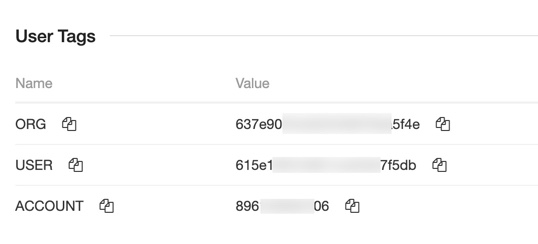
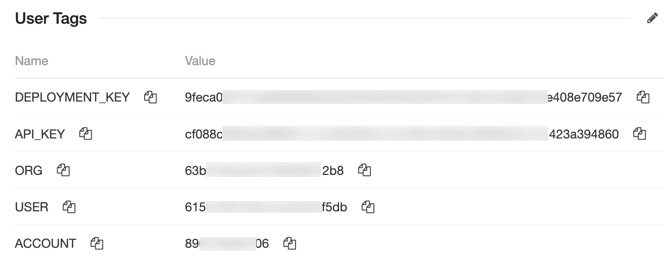
Updated the BP to use User Tags only. No more messing with User Data script

diff --git a/startup_script.py b/startup_script.py
@@ -32,15 +32,16 @@ logging.basicConfig(
 
 logging.info('-----------Initializing startup script-----------')
 time.sleep(60)
-logging.info('Reading /etc/environment')
-env = {}
-with open("/etc/environment") as f:
-    for line in f:
-        name, value = line.split("=")
-        env[name] = value
 
-TS_DEPLOY_KEY = env["TS_DEPLOY_KEY"]
-API_KEY = env["API_KEY"].strip('\n')
+logging.info('Getting UDF User Tags')
+r =requests.get('http://metadata.udf/userTags')
+r.raise_for_status()
+tags = r.json()
+ACCOUNT_ID = jq.compile(".userTags.name.ACCOUNT.value | keys[]").input(tags).first()
+USER_ID = jq.compile(".userTags.name.USER.value | keys[]").input(tags).first()
+ORGANIZATION_ID = jq.compile(".userTags.name.ORG.value | keys[]").input(tags).first()
+TS_DEPLOY_KEY = jq.compile(".userTags.name.DEPLOYMENT_KEY.value | keys[]").input(tags).first()
+API_KEY = jq.compile(".userTags.name.API_KEY.value | keys[]").input(tags).first()
 # Add additionalSetupConfig: ""
 
 logging.info('AIP Deployment key: ' + TS_DEPLOY_KEY)
@@ -62,13 +63,6 @@ subprocess.run("/snap/bin/helm delete threatstack-agents >> /home/ubuntu/log/sta
 time.sleep(15)
 subprocess.run("/snap/bin/helm install threatstack-agents --values /home/ubuntu/ts/values.yaml threatstack/threatstack-agent >> /home/ubuntu/log/startup.log", shell=True)
 
-logging.info('Getting UDF User Tags')
-r =requests.get('http://metadata.udf/userTags')
-r.raise_for_status()
-tags = r.json()
-ACCOUNT_ID = jq.compile(".userTags.name.ACCOUNT.value | keys[]").input(tags).first()
-USER_ID = jq.compile(".userTags.name.USER.value | keys[]").input(tags).first()
-ORGANIZATION_ID = jq.compile(".userTags.name.ORG.value | keys[]").input(tags).first()
 UUID = uuid.uuid4().hex
 logging.info('Deploying Threatstack CFT. Stack Name: ' +'ts0-'+UUID)
 

diff --git a/README.md b/README.md
@@ -23,13 +23,9 @@ What you need to do **BEFORE starting the deployment:**
 
 
 1. In this UDF blueprint locate **CONFIGURE ME** Ubuntu server and click **DETAILS**
-2. **Documentation** page contains User Tags where you need to define 3 tags: ORG, USER and ACCOUNT. See Description on the top of the page for instructions. **Example of User Tags:**
+2. **Documentation** page contains User Tags where you need to define 5 tags: DEPLOYMENT_KEY, API_KEY, ORG, USER and ACCOUNT. See Description on the top of the page for instructions. **Example of User Tags:**
 
 ![tags](https://github.com/f5devcentral/aip-demo-udf/blob/main/user_tags.jpg?raw=true)
-
-3. Navigate to **Details** page and edit **Custom Userdata** script. You need to insert **YOUR Deployment Key** and **YOUR REST API Key**. **Example of Custom Userdata script:**
-
-![tags](https://github.com/f5devcentral/aip-demo-udf/blob/main/custom_user_data.jpg?raw=true)
 
 ## Start the deployment
 

diff --git a/CONFIGURE_ME.md b/CONFIGURE_ME.md
@@ -1,0 +1,18 @@
+AWS CLOUDTRAIL INTEGRATION
+==========================
+
+For AWS CloudTrail integration to work **you MUST specify 5 User Tags below BEFORE STARTING THIS DEPLOYMENT**:
+
+ - DEPLOYMENT_KEY
+ - API_KEY
+ -  ORG
+ -  USER
+ -  ACCOUNT
+
+Values of Deployment Key (DEPLOYMENT_KEY), REST API Key (API_KEY), Organization ID (ORG) and UserID (USER) can be found in AIP Console : Settings -> Keys
+Value of AccountID (ACCOUNT) can be found in AIP Console : Settings -> Integrations -> *Click on **ADD AWS INTEGRATION** and copy the value of **AccountID** *
+**Example** of tags :
+
+![tags](https://github.com/f5devcentral/aip-demo-udf/blob/main/user_tags.jpg?raw=true)
+
+Click *ADD* after populating every tag
